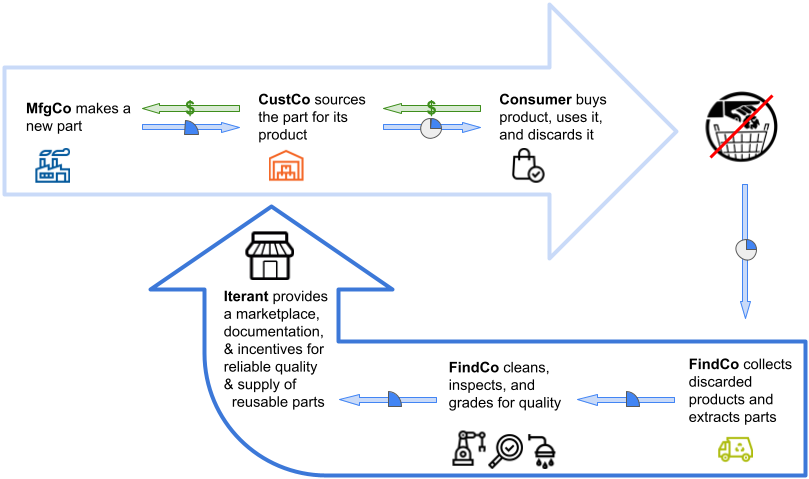
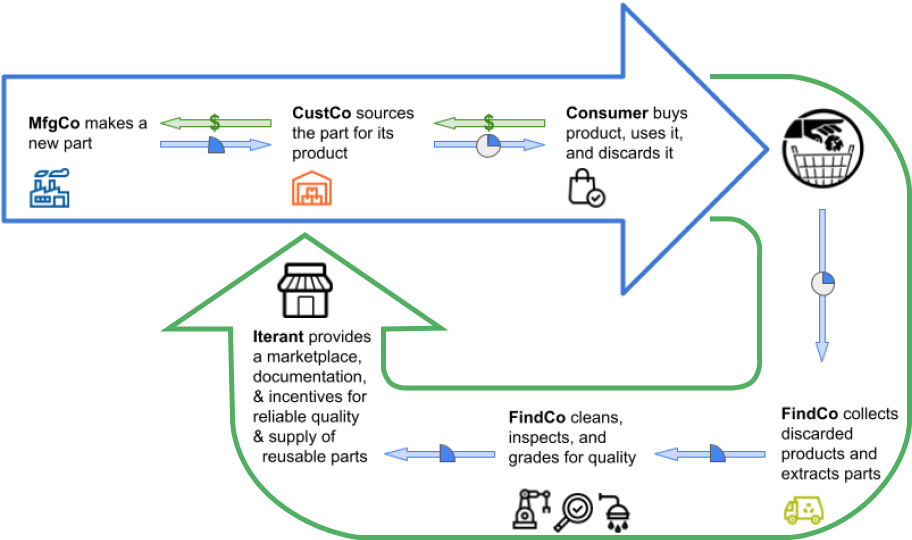
updated Iterant page
Switched out images and text.

Changed region(s): [[0.0, 0.0, 1.0, 1.0], [0.8962, 0.38, 0.958, 0.6722], [0.309, 0.9353, 0.3399, 0.9645]]

diff --git a/pages/projects-iterant.html b/pages/projects-iterant.html
@@ -51,36 +51,66 @@
 
             <div class="side-nav-and-content-wrapper">
               
-              <h1>Incentivizing longer life-cycles for durable, reusable goods</h1>
               <h2>Iterant</h2>
-              <p>Responsive Web | Product Design</p>
+
+              <h1>Incentivizing longer life-cycles for durable, reusable goods</h1>
+              
+              <img width="700px" src="../images/projects/iterant/00-iterant-hero.png"/>
+
+              <h3>
+                Reuse at a large scale, for a sustainable planet
+              </h3>
+
               <p>
-                A cradle-to-grave approach to the use of durable goods is no longer sustainable. A lot of individuals do their part to divert waste from landfills, but at the enterprise scale - that's where meaningful impact can occur. I worked with the founder to strategize on how manufacturing, supply chain, and recovery channels can converge in an online marketplace for the trade and re-trade of products of  consistent quality and supply.
+                A cradle-to-grave approach to the life of durable goods is no longer sustainable. Individuals are now doing their part to divert waste from landfills, but at the <b>enterprise scale</b>, reuse is currently inconvenient and expensive - and that's where meaningful impact can occur.
               </p>
+
+              <img src="../images/projects/iterant/01-flow-existing.png"/>
               
               <p>
-                Part of a UX designer's role is to learn about the business concept and its stakeholders' goals. In this case, the concept was still being shaped. I was able to serve as a sounding board for the founder's ideas, and take part in strategy discussions with him and his technology advisor.
+                Enter <b>Iterant</b>: a pre-seed circular economy startup aiming to enable large-scale reuse. I worked with the founder to strategize on how manufacturing, supply chain, and recovery channels can converge at an online marketplace (PaaS) for reselling used products, at scale, with consistent quality and supply.
               </p>
 
-              <img width="50%" src="../images/projects/iterant/01-flow-existing.png"/>
+              <img src="../images/projects/iterant/02-flow-new.png"/>
 
-              <p class="caption">
-                Manufacturers for durable goods are currently incentivized to make products that are disposed of after first use.
-              </p>
+              <h3>
+                Researching goals to indentify tasks
+              </h3>
 
-              <img width="50%" src="../images/projects/iterant/02-flow-new.png"/>
-
-              <p class="caption">
-                Iterant introduces a circular marketplace that incentivezes manufacturers and supply chain managers to reuse, and creates a "recovery channel".
+              <p>
+                Identifying stakeholders' and end-users' was tricky since we were dealing with an early-stage, evolving business concept. It gave me the unique opportunity to serve as a sounding board for the founder's ideas and to reflect back. Every strategy discussion nudged us along an iterative loop. I found out quickly that the key was to focus on stakeholders' and end-users' goals rather than features and tasks (ref. About Face).
               </p>
 
               <img width="50%" src="../images/projects/iterant/03-end-users.png"/>
-              <img width="50%" src="../images/projects/iterant/04-persona-mfr.png"/>
-              <img width="50%" src="../images/projects/iterant/05-persona-scm.png"/>
-              <img width="50%" src="../images/projects/iterant/06-persona-coll.png"/>
-              <img width="50%" src="../images/projects/iterant/07-site-map.png"/>
-              <img width="50%" src="../images/projects/iterant/08-wireframes.png"/>
-              <img width="100%" src="../images/projects/iterant/09-med-fi-screen.png"/>
+              <img width="50%" src="../images/projects/iterant/04-end-users.png"/>
+
+              <img src="../images/projects/iterant/05-personas.png"/>
+
+              <p>
+                We needed to begin with proto-personas to shape the evolving three-sided marketplace. Mary Manufacturer and Betty Buyer represented the pre-Iterant partnership between an original manufacturer and supply chain manager. Iterant would help them meet their goals. Mary can continue to receive revenue for discarded parts with circular incentives. Betty can source less-costly parts without sacrificing quality and availability. Carl Collector exists in a post-Iterant world. We looked at similar roles, such as scavengers and used clothing sellers to approximate his rough persona.
+              </p>
+
+              <h3>
+                Externalizing insights to begin shaping a platform
+              </h3>
+
+              <p>
+                While developing an understanding of the end-user and business goals, I started to envision the marketplace in a more concrete way for the founder to show potential investors. This also gave us a good visual to prioritize for an MVP. 
+              </p>
+
+              <img src="../images/projects/iterant/06-site-map.png"/>
+
+              <p>
+                We took a deeper dive into Mary Manufacturer's journey as she creates an Iterant catalog page with documentation for one of her company's parts. Mary uploads product info and sets incentives to signal to Carl Collector that he may benefit from reclaiming the parts from landfill. I gave the founder a crash-course in zooming, panning, and commenting in Figma to help facilitate a more nuanced conversation.
+              </p>
+
+              <img src="../images/projects/iterant/07-wireframes.png"/>
+
+              <p>
+                After dozens of iterations, we arrived at some key screens and a clickable Figma protoype demo, which the founder used to raise funds.  Iterant was recently invited to join Berkeley SkyDeck incubator program, PAD-13.
+              </p>
+
+              <img src="../images/projects/iterant/08-final-oem.png"/>
 
               <div>
                 <script>
